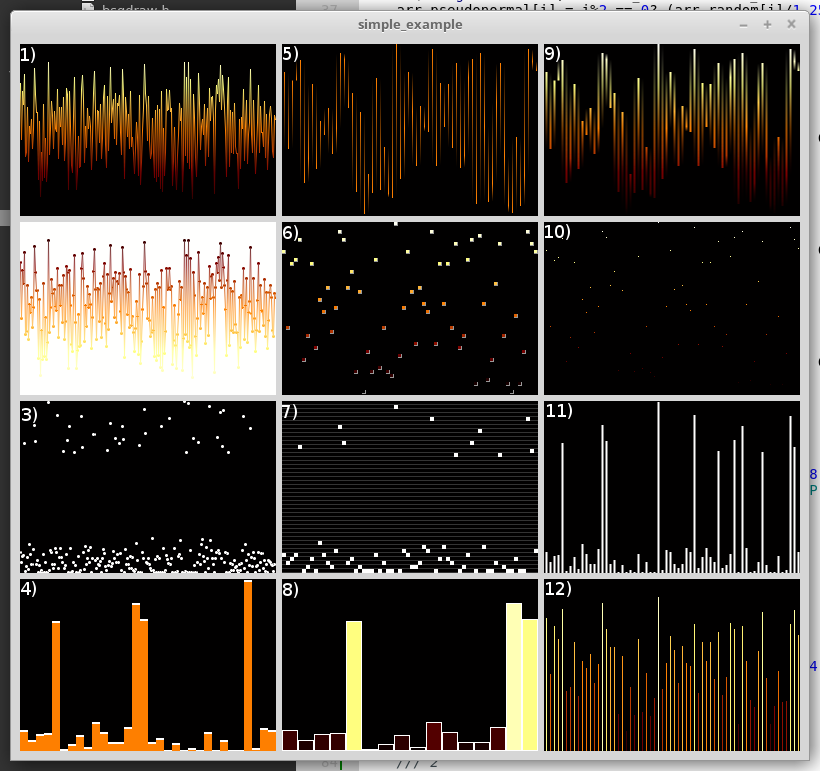
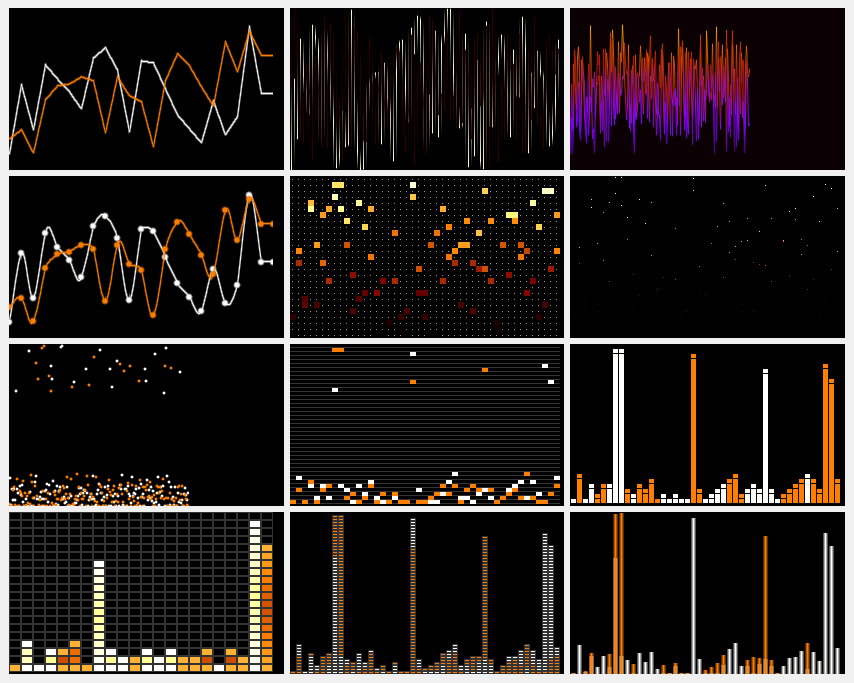
readme fix, default test in main dropped

diff --git a/simple_example/MainWindow.cpp b/simple_example/MainWindow.cpp
@@ -147,8 +147,8 @@ MainWindow::MainWindow(QWidget *parent)
   {
     /// 3 row 3 column
 //    DrawQWidget* pDraw = new DrawGraph(COUNT_SAMPLES/4, COUNT_PORTIONS, graphopts_t::goHistogramCrossMax(0.0f, DE_CENTER), DrawGraph::CP_SINGLE, 0.5f, 1.0f);
-    DrawQWidget* pDraw = new DrawGraph(COUNT_SAMPLES/4, COUNT_PORTIONS, graphopts_t::goHistogramCrossMax(PR_VALUEONLY, DE_NONE), DrawGraph::CP_SINGLE, 0.5f, 1.0f);
-    pDraw->setPostMask(DPostmask(DPostmask::PO_SIGNAL, DPostmask::PM_SHTRICHL, 0, 0.3f));
+    DrawQWidget* pDraw = new DrawGraph(COUNT_SAMPLES/4, COUNT_PORTIONS, graphopts_t::goHistogramCrossMax(PR_SUMMARY, DE_NONE), DrawGraph::CP_SINGLE, 0.5f, 1.0f);
+    pDraw->setPostMask(DPostmask(DPostmask::PO_SIGNAL, DPostmask::PM_LINELEFTBOTTOM, 0, 0.0f));
     pDraw->setScalingLimitsV(5);
     pDraw->setDataPalette(&palette_gnu_latte);
     pDraw->setData(arr_peaks);

diff --git a/example/main.cpp b/example/main.cpp
@@ -9,7 +9,7 @@
 
 
 //#define MW_TEST_NOCHOOSE_DEFAULT (tests_t)4
-#define MW_TEST_NOCHOOSE_DEFAULT (tests_t)12
+//#define MW_TEST_NOCHOOSE_DEFAULT (tests_t)12
 //#define MW_TEST_NOCHOOSE_DEFAULT (tests_t)17
 //#define MW_TEST_NOCHOOSE_DEFAULT (tests_t)10
 //#define MW_TEST_NOCHOOSE_DEFAULT (tests_t)17

diff --git a/README_QUICK.md b/README_QUICK.md
@@ -15,93 +15,112 @@ First, you must include _bsdrawgraph.h_ for DrawGraph (inherits DrawQWidget) cla
   float arr_pseudonormal[COUNT_SAMPLES*COUNT_PORTIONS];	// init somewhere
     
   {
-    /// 1
-    DrawQWidget* pDraw = new DrawGraph(COUNT_SAMPLES, COUNT_PORTIONS, graphopts_t(graphopts_t::GT_LINTERP), DrawGraph::DC_DOWNBASE);
+    /// 1 row 1 column
+    unsigned int scaling = 8;
+    DrawQWidget* pDraw = new DrawGraph(COUNT_SAMPLES/scaling, COUNT_PORTIONS, graphopts_t::goInterp(0.2f, DE_LINTERP), DrawGraph::CP_SINGLE);
+    pDraw->setScalingLimitsH(scaling);
     pDraw->setDataPalette(&palette_gnu_latte);
     pDraw->setData(arr_pseudonormal);
     pLayout->addWidget(pDraw);
   }
   {
-    /// 2
-    DrawQWidget* pDraw = new DrawGraph(COUNT_SAMPLES, COUNT_PORTIONS, graphopts_t(graphopts_t::GT_LINTERP, 0.2f, 0xFFFFFFFF, 1, 0.5f), DrawGraph::DC_DOWNBASE);
-    pDraw->setDataPalette(&palette_gnu_latte_inv);
+    /// 2 row 1 column
+    unsigned int scaling = 8;
+    DrawQWidget* pDraw = new DrawGraph(COUNT_SAMPLES/scaling, COUNT_PORTIONS, graphopts_t::goInterp(0.2f, DE_QINTERP, 0xFFFFFFFF, 4, 1.0f), DrawGraph::CP_SINGLE);
+    pDraw->setScalingLimitsH(scaling);
+    pDraw->setDataPalette(&palette_gnu_latte);
+    pDraw->setData(arr_pseudonormal);
+    pLayout->addWidget(pDraw);
+  }
+  {
+    /// 3 row 1 column
+    DrawQWidget* pDraw = new DrawGraph(COUNT_SAMPLES, COUNT_PORTIONS, graphopts_t::goDots(2, 0.5f, 0xFFFFFFFF), DrawGraph::CP_SINGLE, 1.0f, 0.5f);
+    pDraw->setDataPalette(&palette_gnu_latte);
+    pDraw->setData(arr_peaks);
+    pLayout->addWidget(pDraw);
+  }
+  {
+    /// 4 row 1 column
+    DrawQWidget* pDraw = new DrawGraph(COUNT_SAMPLES/8, COUNT_PORTIONS, graphopts_t::goHistogramCrossMax(), DrawGraph::CP_OWNRANGE_SYMMETRIC, 1.0f, 0.2f);
+    pDraw->setScalingLimitsH(8);
+    pDraw->setScalingLimitsV(8);
+//    pDraw->setPostMask(DPostmask(DPostmask::PO_SIGNAL, DPostmask::PM_LINETOP, 1, 1.0f,1.0f,1.0f));
+    pDraw->setPostMask(DPostmask(DPostmask::PO_ALL, DPostmask::PM_CONTOUR, 0, 0x00333333, 0.0f));
+    pDraw->setDataPalette(&palette_gnu_latte);
+    pDraw->setData(arr_peaks);
+    pLayout->addWidget(pDraw);
+  }
+  ///////////////////////////////////////////////
+  pLayout = new QVBoxLayout();
+  pMainLayout->addLayout(pLayout);
+  {
+    /// 1 row 2 column
+    DrawQWidget* pDraw = new DrawGraph(COUNT_SAMPLES/2, COUNT_PORTIONS, graphopts_t::goInterp(0.0f, DE_CENTER), DrawGraph::CP_SINGLE, 0.9f, 0.1f);
+    pDraw->setDataPalette(&palette_gnu_latte);
+    pDraw->setData(arr_random);
+    pLayout->addWidget(pDraw);
+  }
+  {
+    /// 2 row 2 column
+    DrawQWidget* pDraw = new DrawGraph(COUNT_SAMPLES/4, COUNT_PORTIONS, graphopts_t::goDots(), DrawGraph::CP_RANGE);
+//    pDraw->setPostMask(DPostmask(DPostmask::PO_SIGNAL, DPostmask::PM_LINERIGHTBOTTOM, 0, 0.6f,0.6f,0.6f));
+    pDraw->setPostMask(DPostmask(DPostmask::PO_EMPTY, DPostmask::PM_DOT, 0, 0.6f,0.6f,0.6f));
+    pDraw->setScalingLimitsSynced(4);
+    pDraw->setDataPalette(&palette_gnu_latte);
+    pDraw->setData(arr_random);
+    pLayout->addWidget(pDraw);
+  }
+  {
+    /// 3 row 2 column
+    DrawQWidget* pDraw = new DrawGraph(COUNT_SAMPLES/4, COUNT_PORTIONS, graphopts_t::goDots(), DrawGraph::CP_SINGLE);
+    pDraw->setPostMask(DPostmask(DPostmask::PO_EMPTY, DPostmask::PM_LINEBOTTOM, 0, 0.2f,0.2f,0.2f));
+    pDraw->setScalingLimitsH(4);
+    pDraw->setScalingLimitsV(4);
+    pDraw->setDataPalette(&palette_gnu_latte);
+    pDraw->setData(arr_peaks);
+    pLayout->addWidget(pDraw);
+  }
+  {
+    /// 4 row 2 column
+    DrawQWidget* pDraw = new DrawGraph(COUNT_SAMPLES/4, COUNT_PORTIONS, graphopts_t::goHistogramCrossMin(), DrawGraph::CP_SINGLE, 1.0f, 0.5f);
+    pDraw->setScalingLimitsH(4);
+    pDraw->setScalingLimitsV(3);
+//    pDraw->setPostMask(DPostmask(DPostmask::PO_SIGNAL, DPostmask::PM_LINETOP, 1, 1.0f,1.0f,1.0f));
+    pDraw->setPostMask(DPostmask(DPostmask::PO_SIGNAL, DPostmask::PM_CONTOUR, 0, 0x00333333, 0.0f));
+    pDraw->setDataPalette(&palette_gnu_latte);
+    pDraw->setData(arr_peaks);
+    pLayout->addWidget(pDraw);
+  }
+  ///////////////////////////////////////////////
+  {
+    /// 1 row 3 column
+    DrawQWidget* pDraw = new DrawGraph(COUNT_SAMPLES, COUNT_PORTIONS, graphopts_t::goInterp(0.0f, DE_NONE), DrawGraph::CP_RANGE);
+    pDraw->setDataPalette(&palette_gnu_PuYe);
     pDraw->setData(arr_pseudonormal);
     pLayout->addWidget(pDraw);
   }
   {
-    /// 3
-    DrawQWidget* pDraw = new DrawGraph(COUNT_SAMPLES, COUNT_PORTIONS, graphopts_t(graphopts_t::GT_DOTS, 0.0f, 0xFFFFFFFF, 1, 0.5f), DrawGraph::DC_OFF);
-    pDraw->setDataPalette(&palette_gnu_latte);
-    pDraw->setData(arr_peaks);
-    pLayout->addWidget(pDraw);
-  }
-  {
-    /// 4
-    DrawQWidget* pDraw = new DrawGraph(COUNT_SAMPLES/8, COUNT_PORTIONS, graphopts_t(graphopts_t::GT_LINDOWN_CROSSMAX), DrawGraph::DC_OFF, 0.5f, -1.0f);
-    pDraw->setPostMask(DPostmask(DPostmask::PM_LINETOP, DPostmask::PO_SIGNAL, 1, 1.0f,1.0f,1.0f));
-    pDraw->setDataPalette(&palette_gnu_latte);
-    pDraw->setData(arr_peaks);
-    pLayout->addWidget(pDraw);
-  }
-  {
-    /// 5
-    DrawQWidget* pDraw = new DrawGraph(COUNT_SAMPLES/4, COUNT_PORTIONS, graphopts_t(graphopts_t::GT_LINTERP, 0.0f, 0xFFFFFFFF, 0, 0.0f, graphopts_t::DE_TRIANGLE2), DrawGraph::DC_OFF, 0.5f, -1.0f);
+    /// 2 row 3 column
+    DrawQWidget* pDraw = new DrawGraph(COUNT_SAMPLES/4, COUNT_PORTIONS, graphopts_t::goDots(0, 0.0f, 0xFFFFFFFF, DE_CENTER), DrawGraph::CP_RANGE);
     pDraw->setDataPalette(&palette_gnu_latte);
     pDraw->setData(arr_random);
     pLayout->addWidget(pDraw);
   }
   {
-    /// 6
-    DrawQWidget* pDraw = new DrawGraph(COUNT_SAMPLES/4, COUNT_PORTIONS, graphopts_t(graphopts_t::GT_DOTS), DrawGraph::DC_DOWNBASE);
-    pDraw->setPostMask(DPostmask(DPostmask::PM_LINERIGHTBOTTOM, DPostmask::PO_SIGNAL, 0, 0.6f,0.6f,0.6f));
-    pDraw->setScalingLimitsSynced(4,4);
-    pDraw->setDataPalette(&palette_gnu_latte);
-    pDraw->setData(arr_random);
-    pLayout->addWidget(pDraw);
-  }
-  {
-    /// 7
-    DrawQWidget* pDraw = new DrawGraph(COUNT_SAMPLES/4, COUNT_PORTIONS, graphopts_t(graphopts_t::GT_DOTS), DrawGraph::DC_OFF);
-    pDraw->setPostMask(DPostmask(DPostmask::PM_LINEBOTTOM, DPostmask::PO_EMPTY, 0, 0.2f,0.2f,0.2f));
-    pDraw->setScalingLimitsSynced(4,4);
+    /// 3 row 3 column
+//    DrawQWidget* pDraw = new DrawGraph(COUNT_SAMPLES/4, COUNT_PORTIONS, graphopts_t::goHistogramCrossMax(0.0f, DE_CENTER), DrawGraph::CP_SINGLE, 0.5f, 1.0f);
+    DrawQWidget* pDraw = new DrawGraph(COUNT_SAMPLES/4, COUNT_PORTIONS, graphopts_t::goHistogramCrossMax(PR_SUMMARY, DE_NONE), DrawGraph::CP_SINGLE, 0.5f, 1.0f);
+    pDraw->setPostMask(DPostmask(DPostmask::PO_SIGNAL, DPostmask::PM_LINELEFTBOTTOM, 0, 0.0f));
+    pDraw->setScalingLimitsV(5);
     pDraw->setDataPalette(&palette_gnu_latte);
     pDraw->setData(arr_peaks);
     pLayout->addWidget(pDraw);
   }
   {
-    /// 8
-    DrawQWidget* pDraw = new DrawGraph(COUNT_SAMPLES/16, COUNT_PORTIONS, graphopts_t(graphopts_t::GT_LINDOWN_CROSSMAX), DrawGraph::DC_DOWNBASE);
-    pDraw->setPostMask(DPostmask(DPostmask::PM_CONTOUR, DPostmask::PO_SIGNAL, 0, 1.0f,1.0f,1.0f));
+    /// 4 row 3 column
+    DrawQWidget* pDraw = new DrawGraph(COUNT_SAMPLES/4, COUNT_PORTIONS, graphopts_t::goHistogramCrossMax(0.0f, DE_TRIANGLE), DrawGraph::CP_SINGLE);
     pDraw->setDataPalette(&palette_gnu_latte);
     pDraw->setData(arr_peaks);
-    pLayout->addWidget(pDraw);
-  }
-  {
-    /// 9
-    DrawQWidget* pDraw = new DrawGraph(COUNT_SAMPLES/4, COUNT_PORTIONS, graphopts_t(graphopts_t::GT_LINTERP, 0.0f, 0xFFFFFFFF, 0, 0.0f, graphopts_t::DE_TRIANGLE), DrawGraph::DC_DOWNBASE);
-    pDraw->setDataPalette(&palette_gnu_latte);
-    pDraw->setData(arr_random);
-    pLayout->addWidget(pDraw);
-  }
-  {
-    /// 10
-    DrawQWidget* pDraw = new DrawGraph(COUNT_SAMPLES/4, COUNT_PORTIONS, graphopts_t(graphopts_t::GT_DOTS, graphopts_t::DE_CENTER), DrawGraph::DC_DOWNBASE);
-    pDraw->setDataPalette(&palette_gnu_latte);
-    pDraw->setData(arr_random);
-    pLayout->addWidget(pDraw);
-  }
-  {
-    /// 11
-    DrawQWidget* pDraw = new DrawGraph(COUNT_SAMPLES/4, COUNT_PORTIONS, graphopts_t(graphopts_t::GT_LINDOWN_CROSSMAX, graphopts_t::DE_TRIANGLE), DrawGraph::DC_OFF);
-    pDraw->setDataPalette(&palette_gnu_latte);
-    pDraw->setData(arr_peaks);
-    pLayout->addWidget(pDraw);
-  }
-  {
-    /// 12
-    DrawQWidget* pDraw = new DrawGraph(COUNT_SAMPLES/4, COUNT_PORTIONS, graphopts_t(graphopts_t::GT_LINDOWN_CROSSMAX, graphopts_t::DE_CENTER), DrawGraph::DC_DOWNBASE);
-    pDraw->setDataPalette(&palette_gnu_latte);
-    pDraw->setData(arr_pseudonormal);
     pLayout->addWidget(pDraw);
   }
 ```

diff --git a/README.md b/README.md
@@ -3,7 +3,7 @@ Source code for 4 principal types of graphs, drawed by fragment and vertex shade
 
 * Technology: Qt widgets, inherits QOpenGLWidget class.
 * Shaders: generated and compiled after initializeGl stage.
-* Compatibility: tested on qt4.8, qt5.5, qt5.10 (win/linux). GLSL version 1.30+
+* Compatibility: tested on qt4.8, qt5.5, qt5.12 (win/linux). GLSL version 1.30+
 * Features: fast, const size, cross-platform, universal.
 * Note: main define called BSGLSLVER prepends each shader with string "#version %BSGLSLVER%". 
 All shaders in bsdraw are compatible with glsl 130, but by default BSGLSLVER is not set. So
@@ -11,7 +11,7 @@ if you have any issues, add DEFINES+=BSGLSLVER=130 in your .pro file.
 
 ### Simple example:
 ```
-DrawQWidget* pDraw = new DrawGraph(SAMPLES, PORTIONS, graphopts_t(graphopts_t::GT_LINTERP, 0.0f, 0x77777777, 1, 0.5f), DrawGraph::DC_DOWNBASE);
+DrawQWidget* pDraw = new DrawGraph(SAMPLES, PORTIONS, graphopts_t::goInterp(0.2f, DE_LINTEPR, 0x00333333, 1, 0.5f), DrawGraph::CP_OWNRANGE);
 pDraw->setDataPalette(&palette_gnu_latte);
 pDraw->setData((const float*)data);
 setCentralWidget(pDraw);
@@ -33,8 +33,8 @@ It is difficult to describe all the characteristics, so:
 
 Left to right, up to down: 
 * DrawIntensity, DrawDomain, DrawRecorder, 
-* DrawGraph(GT_DOTS), DrawGraph(GT_LINTERP), DrawGraph(GT_LINDOWN_CROSSMAX),
-* DrawGraph(GT_DOTS, dotsize=1, weight=0.5), DrawGraph(GT_LINTERP, dotsize=1, weight=0.5), DrawGraph(GT_LINDOWN_CROSSMAX, dotsize=1, weight=0.5)
+* DrawGraph(GT_DOTS), DrawGraph(GT_LINTERP), DrawGraph(GT_HISTOGRAM_CROSSMAX),
+* DrawGraph(GT_DOTS, dotsize=1, weight=0.5), DrawGraph(GT_LINTERP, dotsize=1, weight=0.5), DrawGraph(GT_HISTOGRAM_CROSSMAX, dotsize=1, weight=0.5)
 
 ### Scaling
 That technology is designed to solve 2 problems: resize and posteffects
@@ -43,8 +43,8 @@ That technology is designed to solve 2 problems: resize and posteffects
 
 Left to right, up to down (SCALING=4, Postmask(PM_LINELEFTBOTTOM)): 
 * DrawIntensity, DrawDomain, DrawRecorder, 
-* DrawGraph(GT_DOTS), DrawGraph(GT_LINTERP), DrawGraph(GT_LINDOWN_CROSSMAX),
-* DrawGraph(GT_DOTS, Postmask(PM_PSEUDOCIRCLE)), DrawGraph(GT_LINTERP, Postmask(PM_LINELEFT)), DrawGraph(GT_LINDOWN_CROSSMAX, Postmask(PM_LINELEFT))
+* DrawGraph(GT_DOTS), DrawGraph(GT_LINTERP), DrawGraph(GT_HISTOGRAM_CROSSMAX),
+* DrawGraph(GT_DOTS, Postmask(PM_PSEUDOCIRCLE)), DrawGraph(GT_LINTERP, Postmask(PM_LINELEFT)), DrawGraph(GT_HISTOGRAM_CROSSMAX, Postmask(PM_LINELEFT))
 
 ### Overlays
 Fragment shaders compiled like additional functions and mixed with drawed data.
@@ -68,7 +68,7 @@ for (unsigned int i=0; i<drawscount; i++)
 ORIENTATION orients[] = { OR_LRBT, OR_TBLR, OR_BTRL, OR_BTLR, OR_TBRL, OR_RLTB };
 for (unsigned int i=0; i<drawscount; i++)
 {
-  draws[i] = new DrawGraph(SAMPLES, PORTIONS, graphopts_t(graphopts_t::GT_LINTERPSMOOTH, 0.0, 0x00111111), DrawGraph::DC_OFF, 1.0, -0.5);
+  draws[i] = new DrawGraph(SAMPLES, PORTIONS, graphopts_t::goInterp2(DE_NONE, 0x00111111), DrawGraph::CP_SINGLE, 1.0, -0.5);
   draws[i]->setOrientation(orients[i]);
 }
 ```
@@ -117,6 +117,5 @@ bsdraw/overlays/bscontour.cpp & .h;
 bsdraw/overlays/bsimage.cpp & .h
     
 #### Future:
-* vertical draws: graph and recorder
 * texture atlas for text
 * axes with text marking
